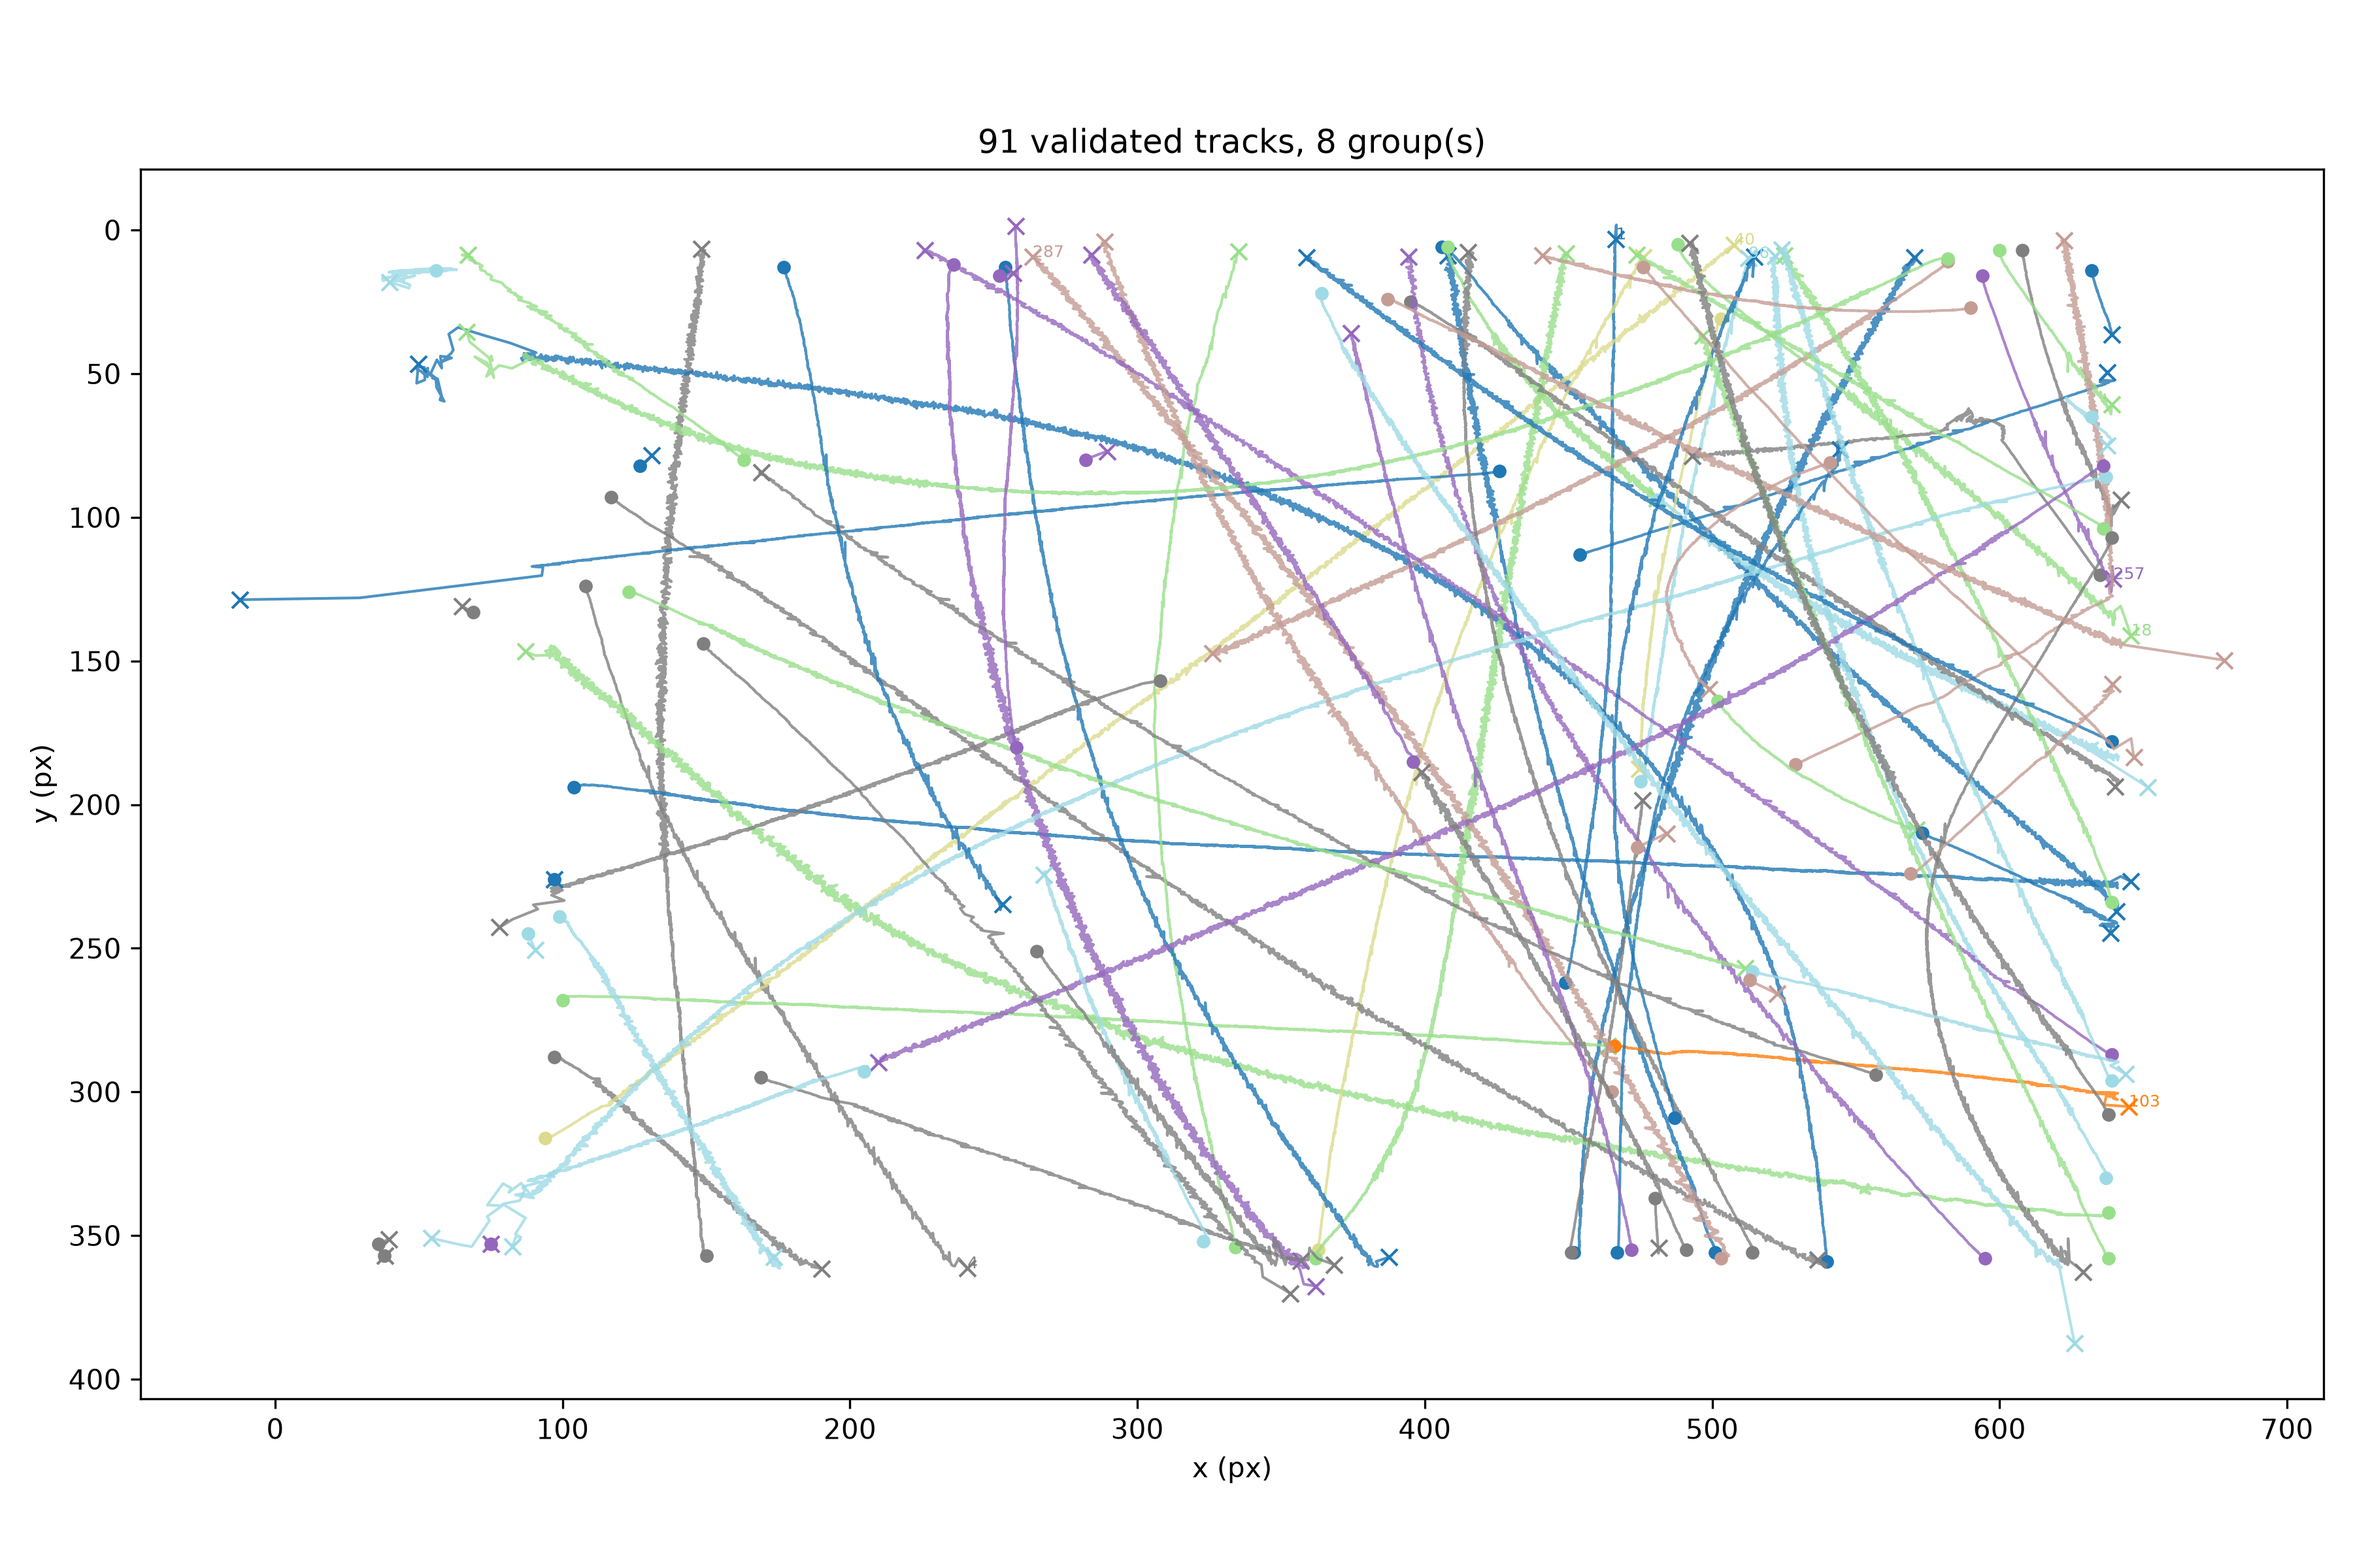
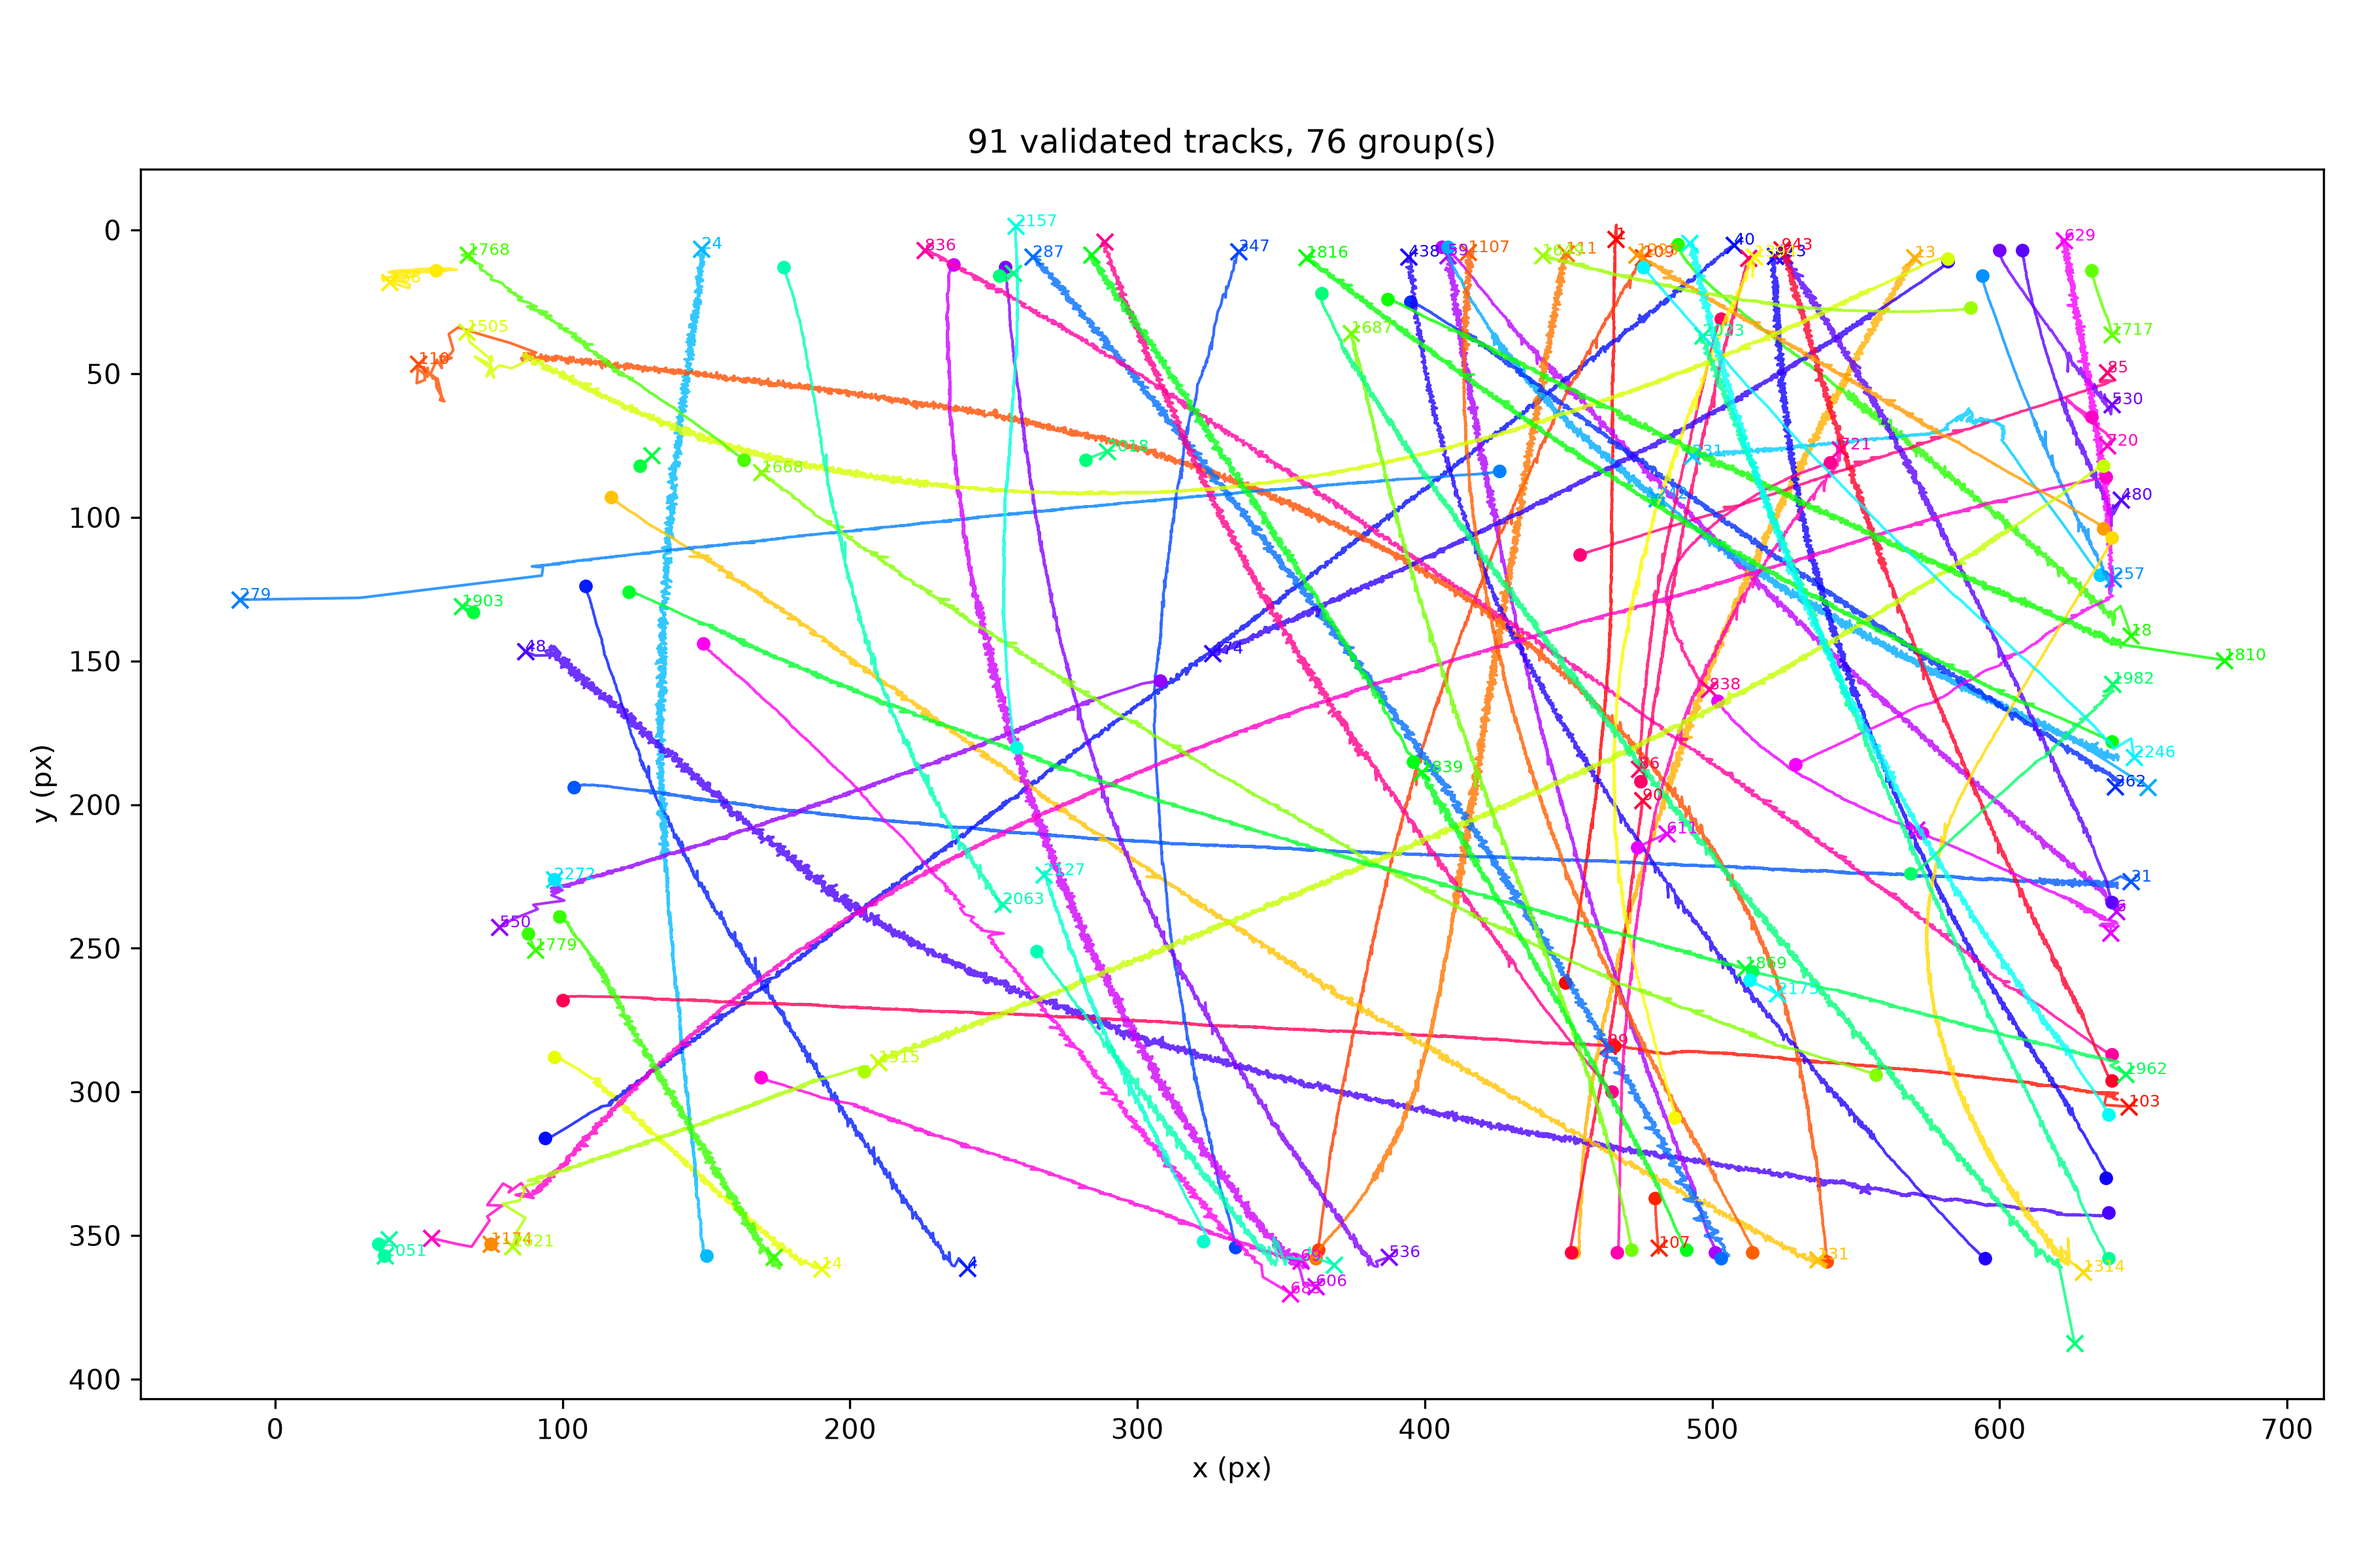
wip

diff --git a/track_logs/extract_tracks.py b/track_logs/extract_tracks.py
@@ -283,5 +283,14 @@ def main():
 
     plot_tracks(tracks, background_image=args.background, output_path=output_path, track_groups=track_groups)
 
+    ##debug diagnose tracks
+    print("[Info] Diagnosing track pair 1768 and 1668...")
+    from merge_tracklets import diagnose_pair, extract_track_endpoints, return_config
+    config = return_config(config_path)
+    endpoints = extract_track_endpoints(summary_data, tracks, config)
+    diagnose_pair(endpoints, 1668, 1768, args.sigma_a, args.sigma_a, args.confidence)
+
+
+    
 if __name__ == "__main__":
     main()

diff --git a/track_logs/merge_tracklets.py b/track_logs/merge_tracklets.py
@@ -137,6 +137,9 @@ def extract_track_endpoints(summary_data, event_data, config: DynamicsConfig):
         }
     return endpoints
 
+def return_config(config_path):
+    return DynamicsConfig.from_yaml(config_path)
+
 def mahalanobis_sq(residual, S):
     try:
         solved = np.linalg.solve(S, residual)
